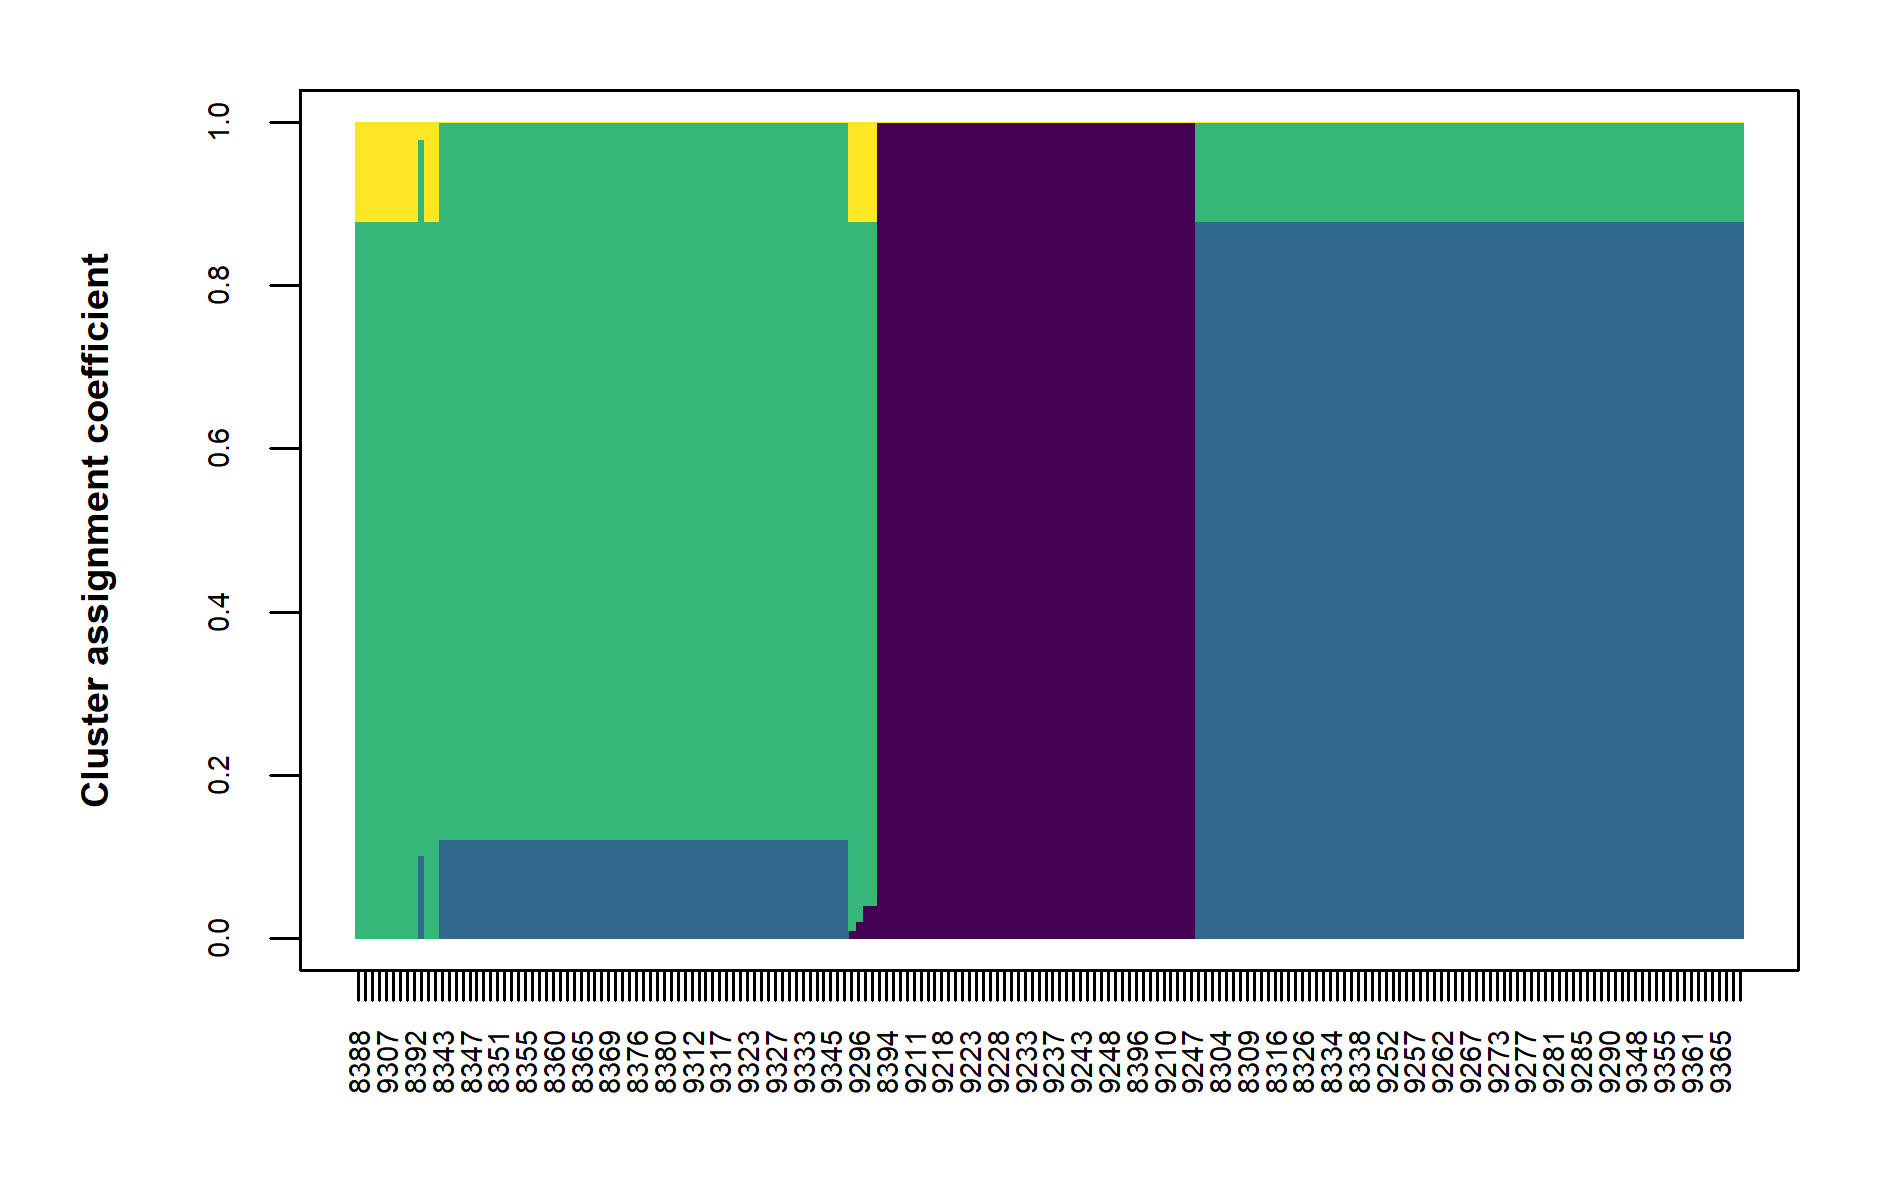
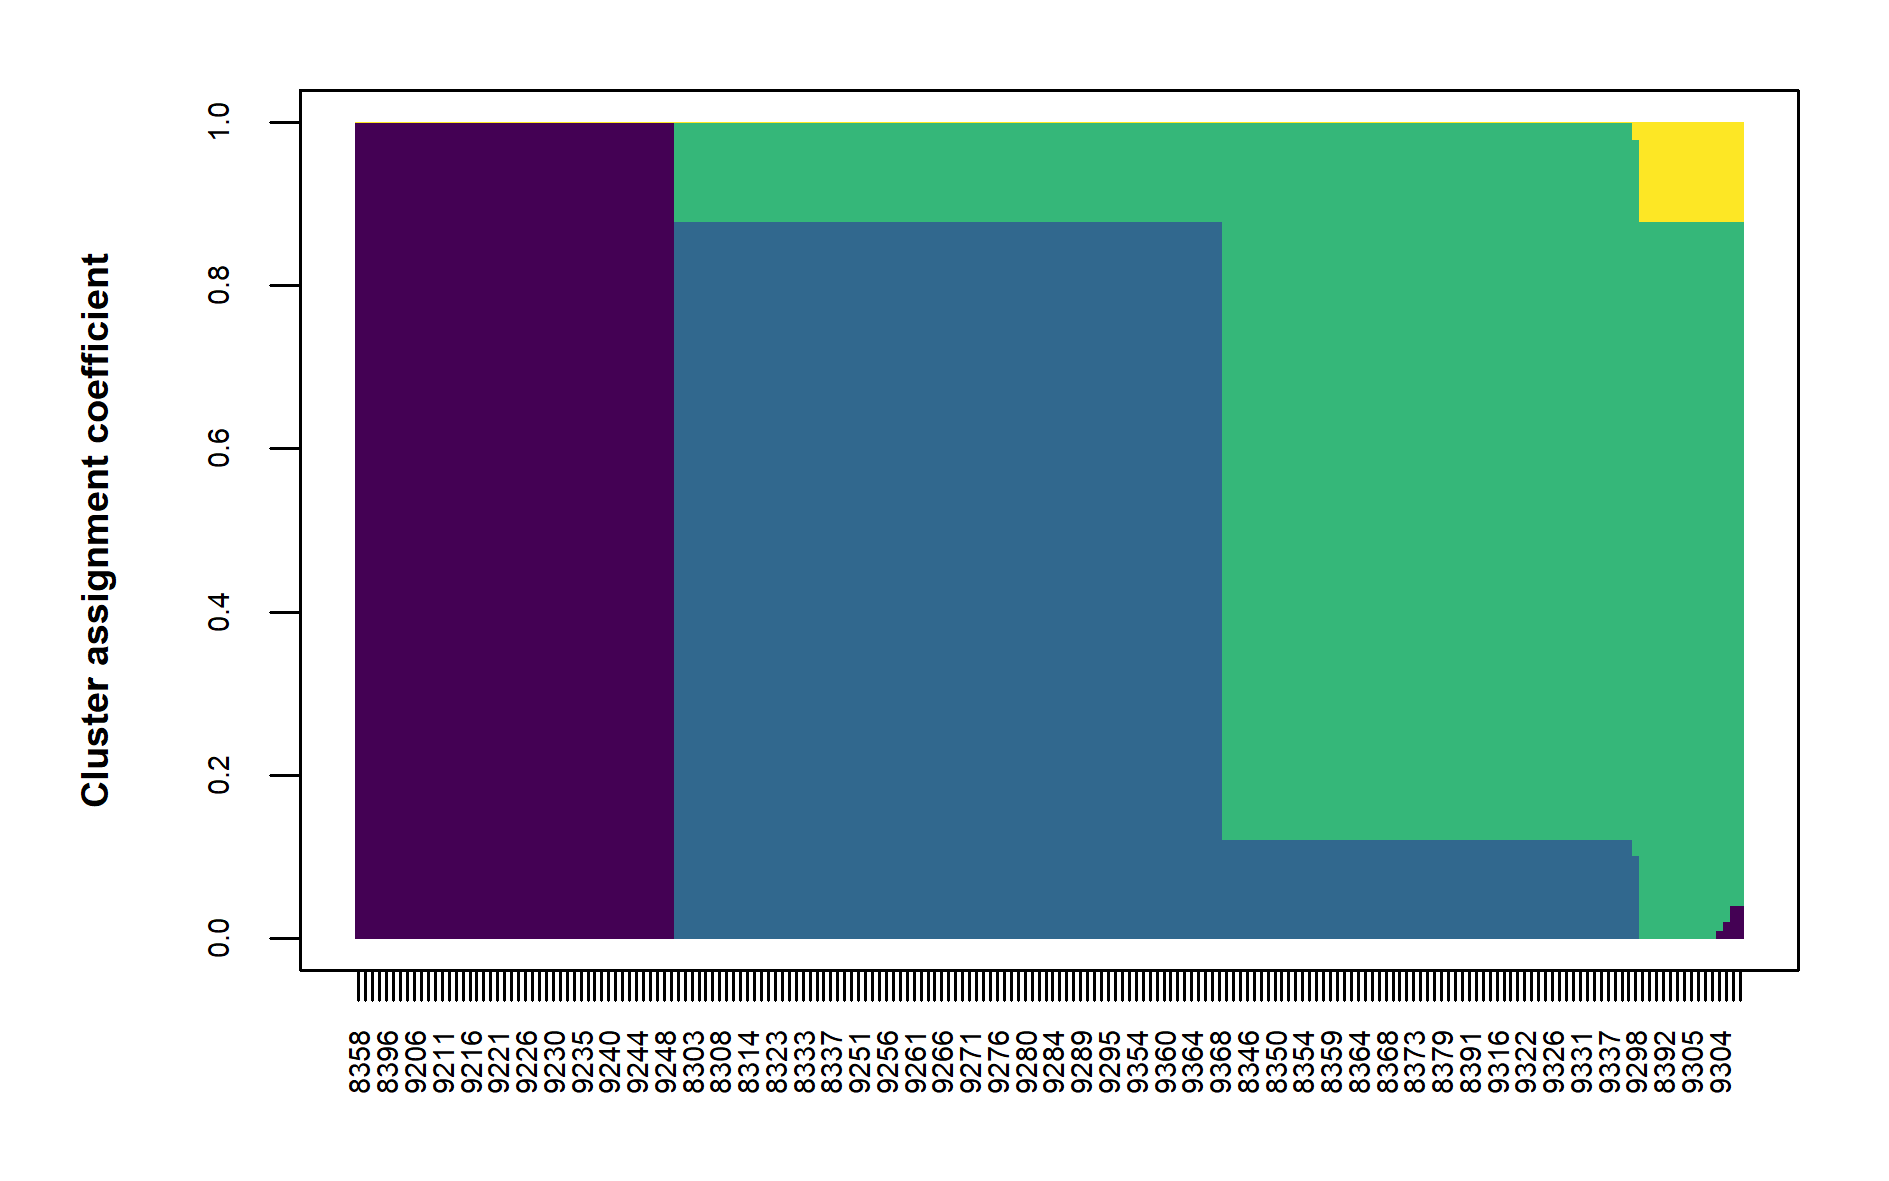
README update

diff --git a/README.md b/README.md
@@ -725,19 +725,43 @@ Each bar represents one individual and summarizes how consistently that individu
 Assignments distributed across multiple clusters indicate that an individual is placed inconsistently among candidate lineages across SOM replicates.
 Such intermediate assignments may indicate weak or incomplete lineage differentiation associated with admixture or discordance among data sources, while a similar pattern across many individuals may also be consistent with recent divergence among lineages.
 
-Here, we use `bottom.margin` to adjust the lower plot margin for the individual labels and `sort.by.col` to order individuals by their assignment coefficient for the fourth cluster.
+Here, we use `bottom.margin` to adjust the lower plot margin for the individual labels.
 The plot shows four cluster components rather than only the more frequently recovered K = 3 solution because the function summarizes assignments across all retained SOM replicates, including both K = 3 and K = 4 replicates.
 Overall, we see three major clusters, with most individuals showing highly consistent assignments to one of the three major candidate lineages, thus reflecting the predominant K = 3 solution.
 The fourth cluster occurs only as a relatively small assignment component in a subset of individuals.
 
 ```r
-plot.structure.SOM(Polygonia_SOM, bottom.margin = 3.5, sort.by.col = 4)
+plot.structure.SOM(Polygonia_SOM, bottom.margin = 3.5)
 ```
 <p align="center">
   <img src="figures/Figure_structure.png">
 </p>
 
-After inspecting these indiviuals and their species and lineage assignments, together with some complicated code to clean the figure (as shown below), 
+We can also extract and evaluate the replicate-consensus cluster assignment coefficients underlying the plot.
+These are stored in the `$ancestry_matrix` component of the clustering output.
+It is also often useful to combine these coefficients with species labels to compare the inferred candidate-lineage assignments with existing species identifications.
+Because the individual IDs are stored as row names in both the ancestry matrix and `Polygonia_metadata`, we can match the species names to the corresponding individuals.
+We can then inspect the dataframe:
+  
+  ```r
+head(Polygonia_SOM$ancestry_matrix)
+Polygonia_ancestry <- as.data.frame(Polygonia_SOM$ancestry_matrix)
+Polygonia_ancestry$Species <- Polygonia_metadata$Species[match(rownames(Polygonia_ancestry), rownames(Polygonia_metadata))]
+head(Polygonia_ancestry)
+```
+```text
+        Cluster_1   Cluster_2  Cluster_3   Cluster_4     Species
+8301         0      0.8787879  0.1212121       0    Polygonia faunus
+8302         0      0.8787879  0.1212121       0    Polygonia faunus
+8303         0      0.8787879  0.1212121       0    Polygonia faunus
+8304         0      0.8787879  0.1212121       0    Polygonia faunus
+8306         0      0.8787879  0.1212121       0    Polygonia faunus
+8307         0      0.8787879  0.1212121       0    Polygonia faunus
+```
+
+This full data frame together with the STRUCTURE-like barplot reveals that the purple and blue clusters correspond to *P. satyrus* (purple) and *P. faunus* (blue), respectively. 
+However, *P. gracilis* and *P. progne* are both predominantly assigned to the green cluster, corresponding to a single candidate lineage.
+These two species are separated only by a small proportion of replicates, with *P. gracilis* receiving the yellow cluster component and *P. progne* the blue cluster component.
 
 
 ### 5.6 Plot geographic assignments
